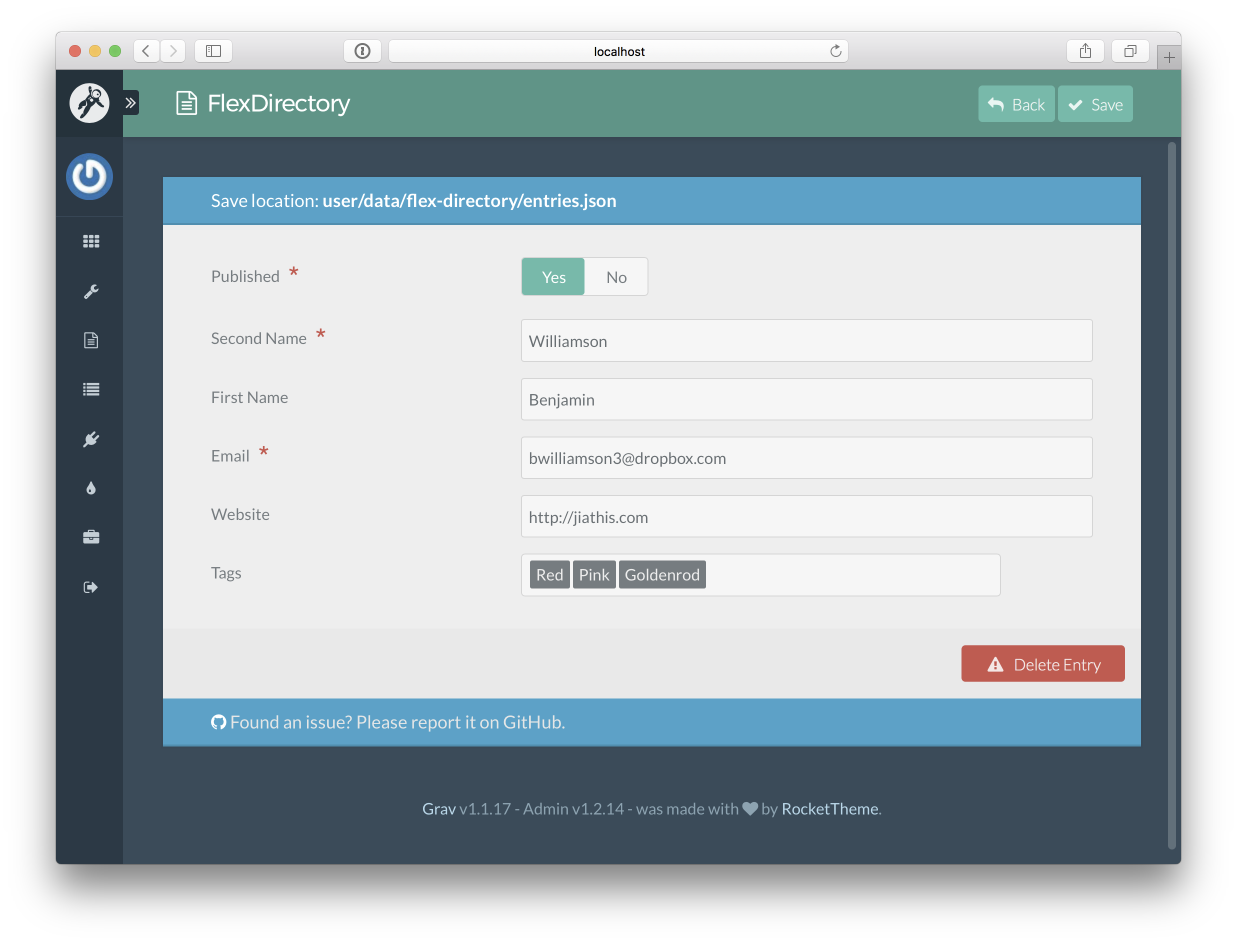
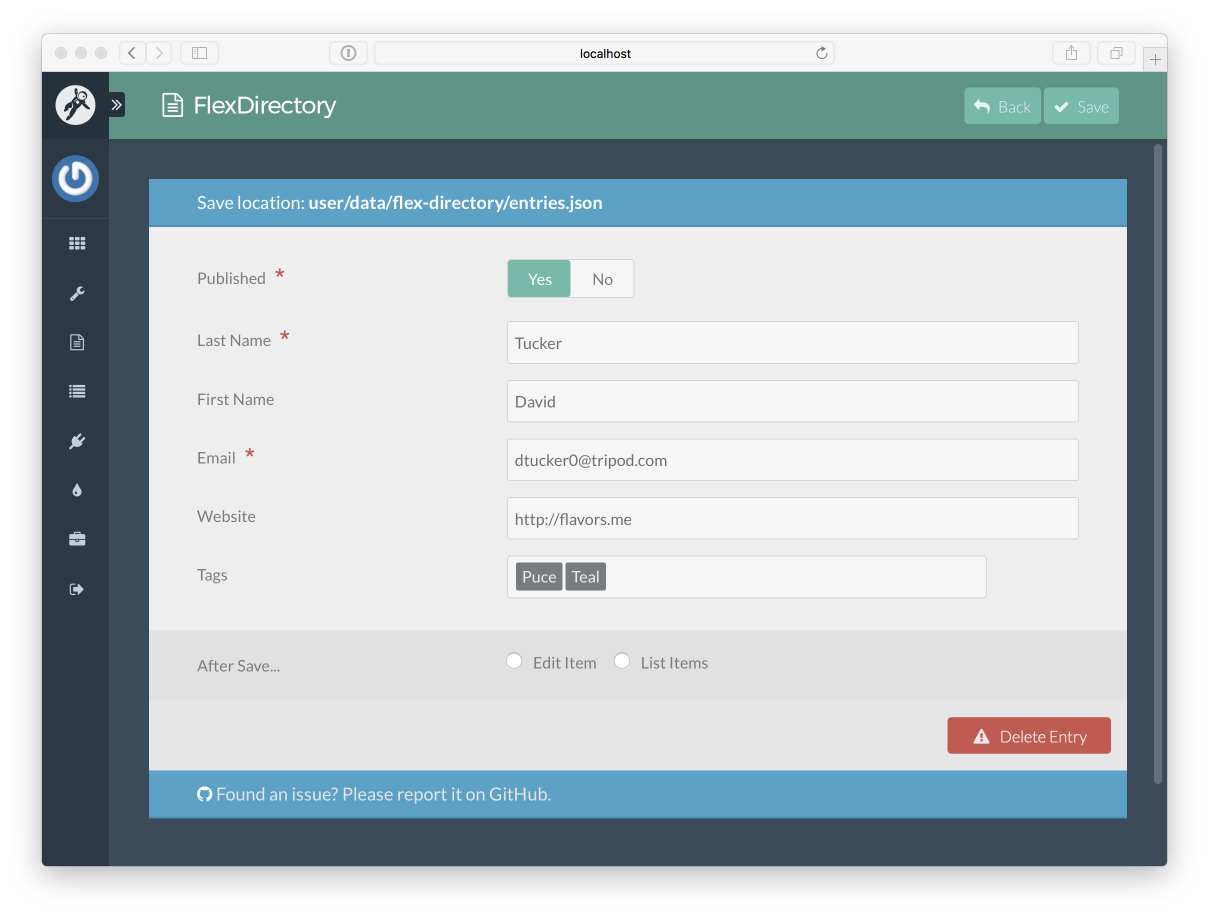
Prepare for release

Changed region(s): [[0.0306, 0.0306, 0.9793, 0.9476]]

diff --git a/README.md b/README.md
@@ -203,6 +203,19 @@ Let's assume you simply want to add a new "Phone Number" field to the existing D
 
     Notice, we removed the `entry-extra` DIV, and added a new `if` block with the Twig code to display the phone number if set.
 
+# File Upload
+
+With Flex Directory v2.0, you can now utilize the `file` form field.  []The standard features apply](https://learn.getgrav.org/forms/blueprints/how-to-add-file-upload), and you can simply edit your custom blueprint with a field definition similar to:
+
+```
+    item_image:
+      type: file
+      label: Item Image
+      random_name: true
+      destination: 'user/data/flex-directory/files'
+      multiple: true
+```
+
 # Advanced
 
 You can radically alter the structure of the `entries.json` data file by making major edits to the `entries.yaml` blueprint file.  However, it's best to start with an empty `entries.json` if you are making wholesale changes or you will have data conflicts.  Best to create your blueprint first.  Reloading a **New Entry** until the form looks correct, then try saving, and check to make sure the stored `user/data/flex-directory/entries.json` file looks correct.

diff --git a/CHANGELOG.md b/CHANGELOG.md
@@ -1,3 +1,10 @@
+# v2.0.0
+##  03/13/2017
+
+1. [](#new)
+    * Added new field to allow `create-new`, `edit`, and `list` on **Save** of item [#10](https://github.com/trilbymedia/grav-plugin-flex-directory/issues/10)
+    * Added support for `file` form field type [#9](https://github.com/trilbymedia/grav-plugin-flex-directory/issues/9)
+
 # v1.0.2
 ##  03/05/2017
 
